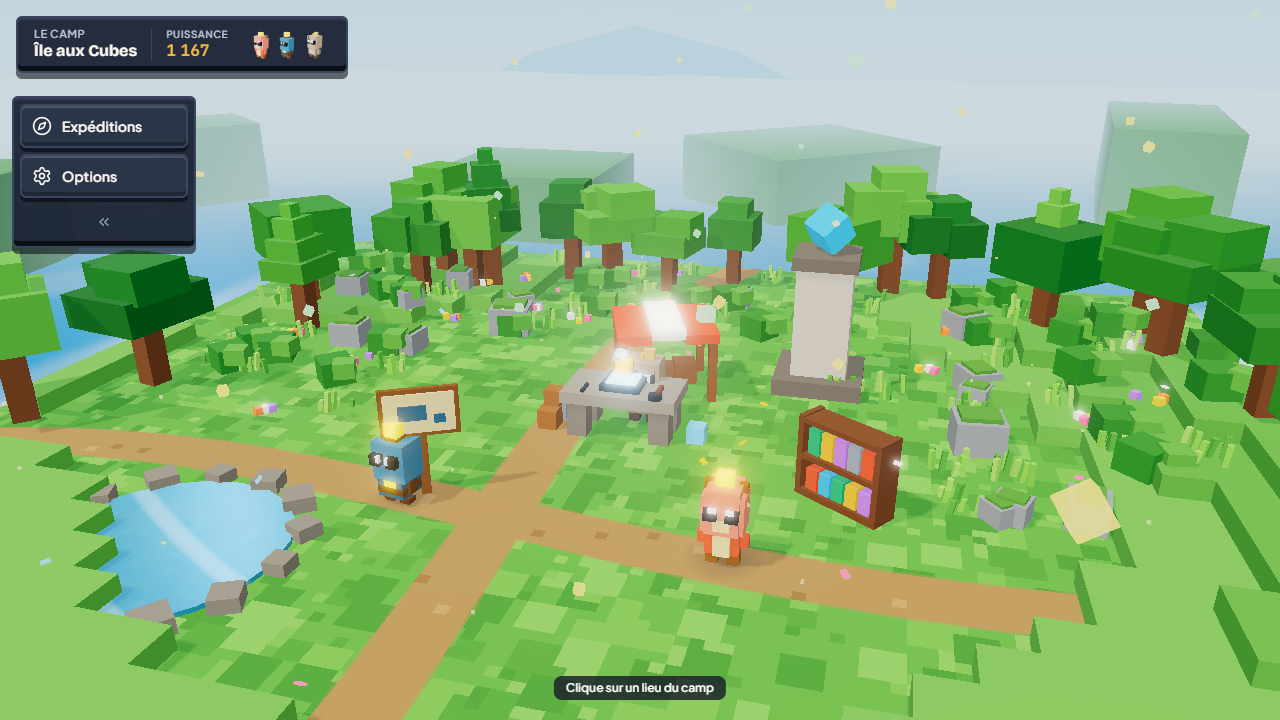
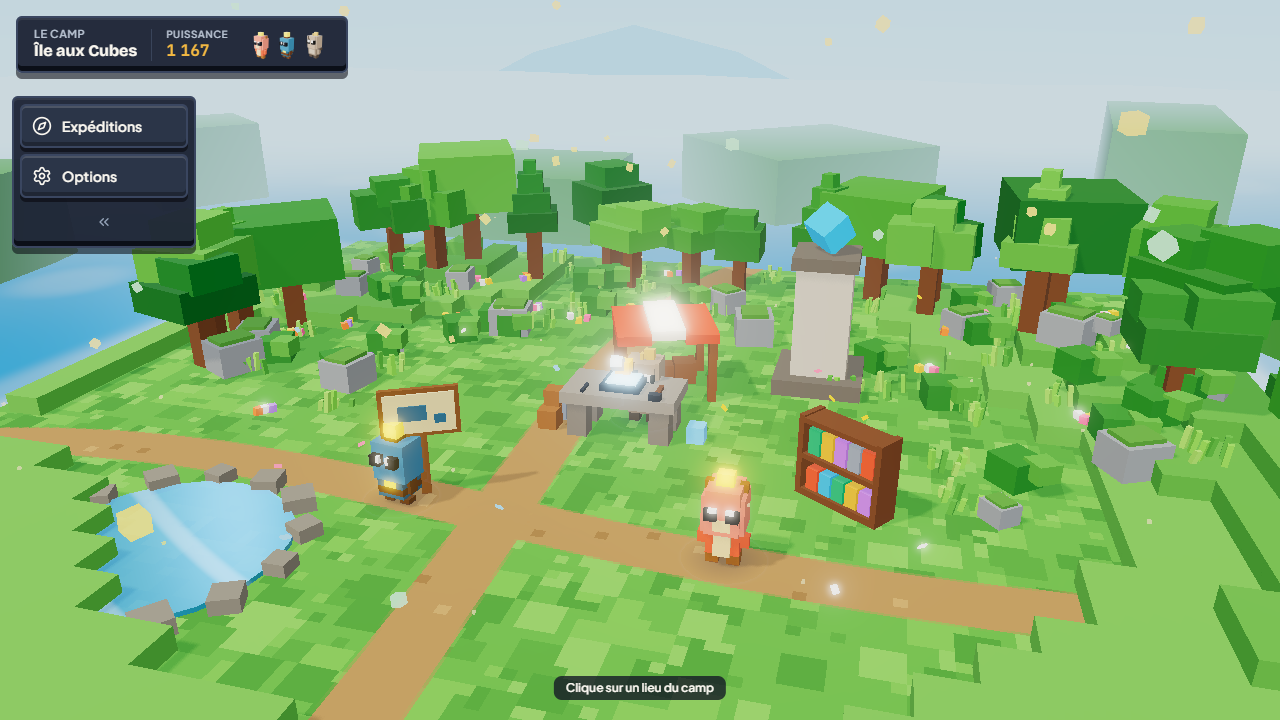
art2.6: galerie ?gallery=art a trois colonnes (Avant ART, ART, ART 2), vent sans tirage dans le hasard du decor, yeux et parties lumineuses sans ombre (Bas 175 draw calls, sous art-final), rapport ART2, CLAUDE.md

diff --git a/src/components/ArtGallery.tsx b/src/components/ArtGallery.tsx
@@ -4,8 +4,8 @@ import { SCULPT_DEFS } from '../game/models/sculptDefs';
 import { CreatureTurntable } from './CreatureTurntable';
 
 /**
- * `?gallery=art` (outil, sprint Art section 5) : pour chaque créature refaite, l'ancien et le nouveau modèle
- * côte à côte, qui tournent ; un bouton « Silhouettes ». Une créature à la fois (deux rendus seulement).
+ * `?gallery=art` (outil, sprint Art section 5) : pour chaque créature refaite, l'ancien modèle, celui du sprint ART
+ * et celui d'ART 2 côte à côte, qui tournent ; un bouton « Silhouettes ». Une créature à la fois (trois rendus).
  * `&species=<id>&silhouette=1` pour les captures. Textes en place : outil de développement.
  */
 export function ArtGallery() {
@@ -17,7 +17,7 @@ export function ArtGallery() {
     <div className="min-h-screen bg-[#0F1420] px-4 py-6 text-[#FAF7F0] sm:px-8">
       <div className="mx-auto max-w-5xl">
         <p className="text-xs font-bold uppercase tracking-wider text-[#F4B942]">Outil de développement</p>
-        <h1 className="font-display text-3xl font-bold">Avant / après : créatures refaites</h1>
+        <h1 className="font-display text-3xl font-bold">Créatures refaites : Avant ART, ART, ART 2</h1>
         <div className="mt-4 flex flex-wrap gap-2">
           {ids.map((id) => (
             <button
@@ -38,11 +38,12 @@ export function ArtGallery() {
             Silhouettes
           </button>
         </div>
-        <div className="mt-6 grid grid-cols-1 gap-4 sm:grid-cols-2">
-          {(['avant', 'après'] as const).map((label) => (
-            <div key={`${current}-${label}-${silhouette}`} className="voxel-panel flex flex-col items-center p-4">
-              <p className="mb-2 font-display text-lg font-bold">{label === 'avant' ? 'Avant (gros pavés)' : 'Après (volumes → blocs)'}</p>
-              <CreatureTurntable speciesId={current} size={300} legacy={label === 'avant'} silhouette={silhouette} />
+        {/* ART2 : trois colonnes, Avant ART · ART · ART 2 */}
+        <div className="mt-6 grid grid-cols-1 gap-4 sm:grid-cols-3">
+          {(['avant', 'art1', 'art2'] as const).map((col) => (
+            <div key={`${current}-${col}-${silhouette}`} className="voxel-panel flex flex-col items-center p-4">
+              <p className="mb-2 font-display text-lg font-bold">{col === 'avant' ? 'Avant ART' : col === 'art1' ? 'ART' : 'ART 2'}</p>
+              <CreatureTurntable speciesId={current} size={240} legacy={col === 'avant'} art1={col === 'art1'} silhouette={silhouette} />
             </div>
           ))}
         </div>

diff --git a/src/components/CreatureTurntable.tsx b/src/components/CreatureTurntable.tsx
@@ -2,7 +2,7 @@ import { useEffect, useRef } from 'react';
 import * as THREE from 'three';
 import { RoomEnvironment } from 'three/addons/environments/RoomEnvironment.js';
 import { buildVoxelCreature } from '../game/voxelModels';
-import { buildLegacyCreature } from '../game/models/creatures';
+import { buildLegacyCreature, buildSculptCreature } from '../game/models/creatures';
 import { SPECIES } from '../game/catalog';
 import { usePrefersReducedMotion } from './ui';
 import { VoxelCreatureAvatar } from './Icons';
@@ -16,6 +16,7 @@ export function CreatureTurntable({
   size = 160,
   variant,
   legacy,
+  art1,
   silhouette,
 }: {
   speciesId: string;
@@ -23,6 +24,8 @@ export function CreatureTurntable({
   variant?: boolean;
   /** Sprint Art : l'ancien modèle « gros pavés » (comparaison). */
   legacy?: boolean;
+  /** ART2 : la version figée du sprint ART (comparaison à trois colonnes). */
+  art1?: boolean;
   /** Sprint Art : ombre noire unie (comparaison des silhouettes). */
   silhouette?: boolean;
 }) {
@@ -57,7 +60,11 @@ export function CreatureTurntable({
     const rim = new THREE.DirectionalLight('#9CC8FF', 0.7);
     rim.position.set(-5, 4, -6);
     scene.add(key, rim, new THREE.HemisphereLight('#DDEBFF', '#5B4A3A', 0.55));
-    const rig = legacy ? buildLegacyCreature(SPECIES[speciesId], 1, variant) : buildVoxelCreature(speciesId, 1, variant);
+    const rig = legacy
+      ? buildLegacyCreature(SPECIES[speciesId], 1, variant)
+      : art1
+        ? buildSculptCreature(SPECIES[speciesId], 1, variant, 'art1')
+        : buildVoxelCreature(speciesId, 1, variant);
     if (silhouette) {
       // comparaison des silhouettes : une seule matière noire
       const black = new THREE.MeshBasicMaterial({ color: '#000000' });
@@ -98,7 +105,7 @@ export function CreatureTurntable({
       renderer.forceContextLoss();
       renderer.domElement.remove();
     };
-  }, [speciesId, size, reduced, variant, legacy, silhouette]);
+  }, [speciesId, size, reduced, variant, legacy, art1, silhouette]);
 
   if (reduced || failed.current) return <VoxelCreatureAvatar speciesId={speciesId} size={size} />;
   return <div ref={mount} style={{ width: size, height: size }} aria-hidden="true" />;

diff --git a/src/game/models/meadowDecor.ts b/src/game/models/meadowDecor.ts
@@ -253,7 +253,8 @@ export function addMeadowArtDecor(env: THREE.Group, arenaRadius: number, isCamp:
     dummy.updateMatrix();
     trunks.setMatrixAt(i, dummy.matrix);
     const tint = ['#4FA43C', '#3E8E34', '#62B84A', '#2F7A2E'][i % 4];
-    treePhase.push({ phase: rnd() * Math.PI * 2, period: 3 + rnd() * 2 });
+    // phase et période tirées de l'indice, sans consommer le hasard du décor (sa disposition reste celle d'ART)
+    treePhase.push({ phase: ((i * 2.399) % 1) * Math.PI * 2, period: 3 + ((i * 0.618) % 1) * 2 });
     const pivot = new THREE.Vector3(x, y0 + 1.6 * s, z);
     for (const [bx, by, bz, sx, sy, sz] of SHAPES[i % SHAPES.length]) {
       dummy.position.set(x + bx * s, y0 + by * s, z + bz * s);

diff --git a/src/game/models/voxelSculpt.ts b/src/game/models/voxelSculpt.ts
@@ -287,7 +287,8 @@ export function buildSculptRig(def: SculptDef, palette: SculptPalette, res: numb
       geo.setAttribute('color', new THREE.Float32BufferAttribute(clr, 3));
       geo.setIndex(idx);
       const mesh = new THREE.Mesh(geo, glowing ? glow : base);
-      mesh.castShadow = true;
+      // ART2 : les parties lumineuses et les yeux ne projettent pas d'ombre (invisible à l'écran, une passe d'ombre de moins)
+      mesh.castShadow = !glowing && !eyes.has(g);
       mesh.receiveShadow = true;
       holder.add(mesh);
     }

diff --git a/docs/rapports/ART2.md b/docs/rapports/ART2.md
@@ -1,0 +1,149 @@
+# Sprint ART 2 : lisibilité — rapport
+
+Branche `art-lisibilite`, partie de `art-final`. `main` n'a pas bougé.
+Fiche : `docs/plan/SPRINT_ART2.md`, commitée en premier.
+
+## Sauvegarde et tags (tous poussés et vérifiés par `git ls-remote --tags origin`)
+
+| Tag / branche | Moment |
+| --- | --- |
+| `sauvegarde-avant-art2` (tag + branche) | état `art-final`, avant tout changement |
+| `art2-avant-vent` | avant la section 0 |
+| `art2-avant-couleurs` | avant la section 1 |
+| `art2-avant-formes-de-base` | avant la section 2 |
+| `art2-avant-formes-evoluees` | avant la section 3 |
+| `art2-avant-premier-plan` | avant la section 4 |
+| `art2-avant-tactile` | avant la section 5 |
+| `art2-avant-rapport` | avant la section 6 |
+| `art2-final` | fin du sprint |
+
+Retour en arrière : `git checkout sauvegarde-avant-art2` (ou un tag `art2-avant-*` pour annuler une section).
+
+`npm run check` est passé après chaque section : 135 tests, golden identique (840 combats), build OK. `npm run texts` et `npm run lexique` sont à 0.
+
+## Ce qui a changé
+
+### Section 0 : vent
+
+- Le tronc reste immobile. Le feuillage tourne d'un bloc (au plus 2°), sur un cycle de 3 à 5 s, décalé d'un arbre à l'autre. Il n'est pas déformé (`meadowDecor.ts`).
+- Les herbes oscillent deux fois moins (0,35 → 0,16) et les fleurs aussi (0,25 → 0,1).
+- Le vent est coupé en qualité Basse et quand le système demande moins d'animations.
+- Nouveau réglage dans Options : « Vent : Normal / Doux / Coupé » (`settings.wind`, testé dans `bench.test.ts`).
+- Décision de la section 6 : la phase et la période de chaque arbre se calculent à partir de son numéro, sans tirage aléatoire. Avec des tirages, tout le décor suivant changeait de place, et la scène de mesure ne pouvait plus être comparée à `art-final`.
+
+### Section 1 : couleurs des 9 créatures
+
+- `models/artPalette.ts` calcule la palette :
+  - le corps ;
+  - la tête, plus claire ;
+  - les détails sombres, avec au moins 25 % d'écart de luminosité ;
+  - le ventre et l'accent.
+- Le bruit de surface est ramené à ±1,3 % (`ART2_AO_STRENGTH`). La limite était de ±4 %.
+- Le contour et l'éclairage sont gardés.
+- Test (`art.test.ts`) : la tête, les détails, le ventre et l'accent ont tous au moins 15 % d'écart avec le corps.
+- Décision : j'ai essayé des normales lissées pour adoucir les surfaces en escalier. Elles faisaient des taches sur les faces plates, je les ai abandonnées (l'option existe mais n'est pas utilisée, voir le commentaire dans `creatures.ts`).
+
+### Section 2 : formes de base
+
+| Créature | Détail signature |
+| --- | --- |
+| Pyrocube | cube de braise lumineux sur la tête |
+| Ampoulin | ampoule sur sa douille |
+| Cailloc | deux cristaux d'ambre et une fissure sombre au front |
+
+- Les têtes font 48 %, 46 % et 45 % de la hauteur.
+- Les yeux font 3 blocs de haut, avec un reflet.
+- La tête, le corps, les pattes et le détail sont des volumes distincts, en boîtes aux coins taillés.
+- Nouveaux tests :
+  - la tête des formes de base fait 45 à 50 % de la hauteur, celle des formes évoluées 30 à 40 % ;
+  - les 9 silhouettes noires vues de face, ramenées à 64 px, sont toutes différentes (recouvrement < 90 % deux à deux).
+
+### Section 3 : formes évoluées
+
+- Flambrix, Ignisaur, Bobinard, Voltacier, Granitox et Magmadrake :
+  - les derniers ellipsoïdes sont devenus des boîtes : plus de rayures en escalier ;
+  - la palette de la section 1 s'applique ;
+  - les têtes de Granitox et Magmadrake sont agrandies jusqu'au seuil de 30 %.
+- Cadrage : la créature remplit au moins 70 % de la hauteur, sa largeur étant bornée à 90 %. Cela vaut dans la galerie, les portraits (`portraitStudio.ts`) et le portrait qui tourne (`CreatureTurntable.tsx`).
+- Les choix anti-plagiat du sprint ART sont gardés : plaques de lave d'Ignisaur, lignée du feu toute cubique, ailettes de bobine de Voltacier.
+
+### Section 4 : premier plan du camp
+
+- Au camp seulement, les arbres, les buissons, les rochers, les touffes et les fleurs passent du côté opposé à la caméra.
+- Le relief du premier plan est plafonné à 0,5 : les gros blocs flous du bas de l'écran ont disparu.
+- Il y a 40 % d'herbe en moins (480 → 287), en touffes de 7 brins, et 40 % de fleurs en moins (110 → 66), en bouquets de 3.
+- Le panneau des expéditions est rapproché : il était coupé en 390 × 844.
+- Le chemin et les 4 lieux (Atelier, panneau, totem, bibliothèque) sont dégagés au format 16:9 et en 390 × 844.
+- Le combat ne change pas.
+- `tools/captures.ps1 -Formats bureau,mobile,telephone` ajoute le format 390 × 844.
+
+### Section 5 : au doigt (R17)
+
+- Il n'existait aucun moyen de se déplacer au doigt en mode Manuel. J'ai ajouté une manette tactile (`TouchStick.tsx`) :
+  - elle n'apparaît qu'en mode Manuel ;
+  - elle a une zone morte au centre ;
+  - relâcher arrête la créature ;
+  - les touches du clavier restent prioritaires.
+- Le moteur lit `setTouchMove`, remis à zéro à chaque départ. Un test le couvre.
+- Les boutons du HUD de combat passent à 44 px (Auto, son, pause, cartes de sort).
+- Sur un écran en hauteur, la caméra de combat recule de 35 % pour garder la mêlée en vue (`camera.ts`).
+
+| Écran | Action | Au doigt (390 × 844) | Taille |
+| --- | --- | --- | --- |
+| Camp | toucher un lieu (Atelier, panneau, totem, bibliothèque) | oui (lieux en 3D, A3) | lieux larges |
+| Camp | barre Expéditions / Options | oui | 44 px |
+| Atelier | onglets, créer, fermer | oui | ≥ 44 px (A2) |
+| Équipe | choisir le trio, meneur, détails, fermer | oui | 44 px sur téléphone (`w-11`, `min-h-[44px]`) |
+| Équipe | variante (interrupteur) | oui | ligne de 44 px |
+| Combat | se déplacer (mode Manuel) | **ajouté** : manette | 132 px |
+| Combat | sorts (cartes) | oui | ≥ 44 px (corrigé) |
+| Combat | Esquive | oui | grand bouton |
+| Combat | Déchaînement | oui | grand bouton |
+| Combat | Auto / Manuel | oui | 44 px (corrigé, 40 avant) |
+| Combat | son, pause | oui | 44 px (corrigé, 40 avant) |
+| Pause | Reprendre / Camp | oui | ≥ 44 px |
+
+Vérifié par le code et par les captures en 390 × 844, mais **pas avec un vrai doigt** : le navigateur headless n'envoie pas d'événements tactiles. À essayer sur un téléphone, surtout la manette.
+
+### Section 6
+
+- `?gallery=art` affiche trois colonnes, « Avant ART », « ART » et « ART 2 », avec le bouton Silhouettes. La colonne ART utilise `SCULPT_DEFS_ART1`, une copie figée des modèles du sprint ART.
+- Mesures : voir le tableau suivant.
+
+## Performance (`?stage=meadow-2&debug=1&quality=X`, 1280 × 720, même instant)
+
+| Qualité | `art-final` (draw calls / triangles) | ART 2 |
+| --- | --- | --- |
+| Bas | 178 / 17 460 | **175 / 16 884** |
+| Moyen | 396 / 116 582 | 378 / 107 894 |
+| Haut | 607 / 174 906 | 580 / 161 874 |
+
+- J'ai remesuré `art-final` à la fin, dans un worktree, avec le même script.
+- Incident : supprimer le worktree de mesure (`git worktree remove --force`) a vidé `node_modules` par la jonction. Réinstallé avec `npm ci` (même verrou, aucune dépendance ajoutée), puis `npm run check` repassé. Le dépôt n'a pas été touché.
+- Après les formes de base, le Bas montait à 184 draw calls (le cadrage de l'instant mesuré changeait). Décision : les yeux et les parties lumineuses ne projettent plus d'ombre. On ne le voit pas à l'écran, et le Bas repasse sous `art-final`.
+
+## Captures
+
+- `docs/rapports/art2/avant/` : l'état `art-final`.
+- `docs/rapports/art2/apres/` contient :
+  - le camp de jour et de nuit, en bureau, mobile et téléphone ;
+  - le combat et le boss en bureau et téléphone ;
+  - l'équipe et l'Atelier ;
+  - les 3 lignées ;
+  - `art-<id>` pour les 9 créatures et les silhouettes ;
+  - les mesures Bas, Moyen et Haut.
+
+## Vu seulement sur images fixes (à juger en jeu)
+
+- Le vent : le balancement du feuillage, le cycle de 3 à 5 s, le réglage Doux. Edge headless n'anime rien.
+- La manette tactile : la sensation, la zone morte, la vitesse.
+- Le recul de la caméra sur téléphone pendant un vrai combat (boss compris).
+- Les couleurs et les formes en mouvement, et la ressemblance éventuelle avec des créatures existantes : à mon avis, aucune, toutes les formes sont des boîtes.
+
+## Restart handle
+
+- Changé : `meadowDecor.ts`, `settings.ts`, `artPalette.ts`, `sculptDefs.ts`, `sculptDefsArt1.ts`, `voxelSculpt.ts`, `creatures.ts`, cadrages (`portraitStudio`, `galleryRenderer`, `CreatureTurntable`), `camp.ts` (panneau), `camera.ts`, `TouchStick.tsx`, `ExpeditionHud.tsx`, `ArtGallery.tsx`, `captures.ps1`.
+- Non vérifié : tout ce qui est listé ci-dessus comme vu seulement sur images fixes, et les FPS sur une vraie machine.
+- Retour en arrière : tags `art2-avant-*` ou `sauvegarde-avant-art2`.
+- Ne pas toucher : `main`, et le golden (identique).
+- Prochaine étape sûre : jouer `…/next/` sur téléphone, puis avancer `main` sur `art2-final` si le résultat convient.

diff --git a/CLAUDE.md b/CLAUDE.md
@@ -189,6 +189,7 @@ npm run sim -- --scale 1/0.7/1                 # multiplie les réglages de tous
 - **Cubes** : la règle (`resolveCubeHit`, `pickSkillTarget`) est pure dans `rules.ts` ; ses réglages dans `CUBE_KIT`, `ULTIMATE_CHARGE`, `ULTIMATE_KIT` (`balance.ts`) et `BURSTS` (`catalog.ts`). Sur un ennemi, le cube remplace les statuts (un seul, de la durée du cube) ; les altérations infligées aux alliés restent des statuts. Tout nouvel état transitoire de combat (`pendingUltHits`, `slowMoTimer`, verrous) se remet à zéro dans `startExpedition` et `loadCampScene`.
 - **Étoiles** (S06) : victoire, aucun K.O., défi (`STAGE_CHALLENGES`, catalog.ts). Aucun défi ni aucune récompense ne dépend des Éclats ou des Trios (retour du propriétaire : les cubes pourraient être retirés). Les étoiles ne se perdent jamais (`mergeStars`) ; paliers `STAR_TIERS` rattrapés à la victoire suivante (`starTiersClaimed`). XP : table de catalog.ts × `XP_KIT.xpScale`, réglée avec `npm run journey`.
 - **Début de partie** (S07) : trios `STARTER_TRIOS`, ouvertures `UNLOCKS` (`unlockedFeatures`, une sauvegarde d'avant S07 a `allUnlocked`), leçons `engine/lessons.ts` (actives seulement après `setLessonsDone` : les outils ne les voient jamais, le golden reste identique). Journal de test : `src/game/journal.ts` (localStorage, 500 lignes, jamais envoyé). Profil `idle` de `npm run sim` = débutant qui n'appuie sur rien ; `--starter` / `--trio` pour mesurer avec les trios de départ.
+- **ART 2** : couleurs des créatures refaites calculées par `models/artPalette.ts` (tête plus claire, détails sombres, écart ≥ 15 %, testé) ; `SCULPT_DEFS_ART1` est une copie figée pour `?gallery=art` (trois colonnes). Vent : réglage `settings.wind` (Normal / Doux / Coupé), coupé en Bas et avec reduced-motion ; il ne tire jamais dans le hasard du décor. R17 : tout se fait au doigt en 390 × 844 en qualité Basse (manette tactile `TouchStick.tsx` en mode Manuel, boutons ≥ 44 px) ; captures `tools/captures.ps1 -Formats bureau,mobile,telephone`.
 - **Sprint Art : navigateur seulement.** `main.tsx` active `setSculptModels(true)` et `setArtDecor(true)`. Les outils et le moteur headless gardent les anciens modèles et l'ancien décor, et les effets aléatoires ajoutés (éclats de blocs, K.O.) ne partent que si `!self.headless` : le golden reste identique. Un nouveau modèle ou décor « art » doit suivre la même règle, sinon il change le nombre d'objets three.js créés pendant un combat simulé.
 - `catalog.ts` importe `balance.ts` : `balance.ts` ne doit rien importer du catalogue. `i18n/fr.ts` n'importe rien.
 - Deux fichiers de verrouillage coexistent : `package-lock.json` (npm, à jour, utilisé par la CI) et `bun.lock` (hérité, pas régénéré faute de `bun` sur la machine de développement).
